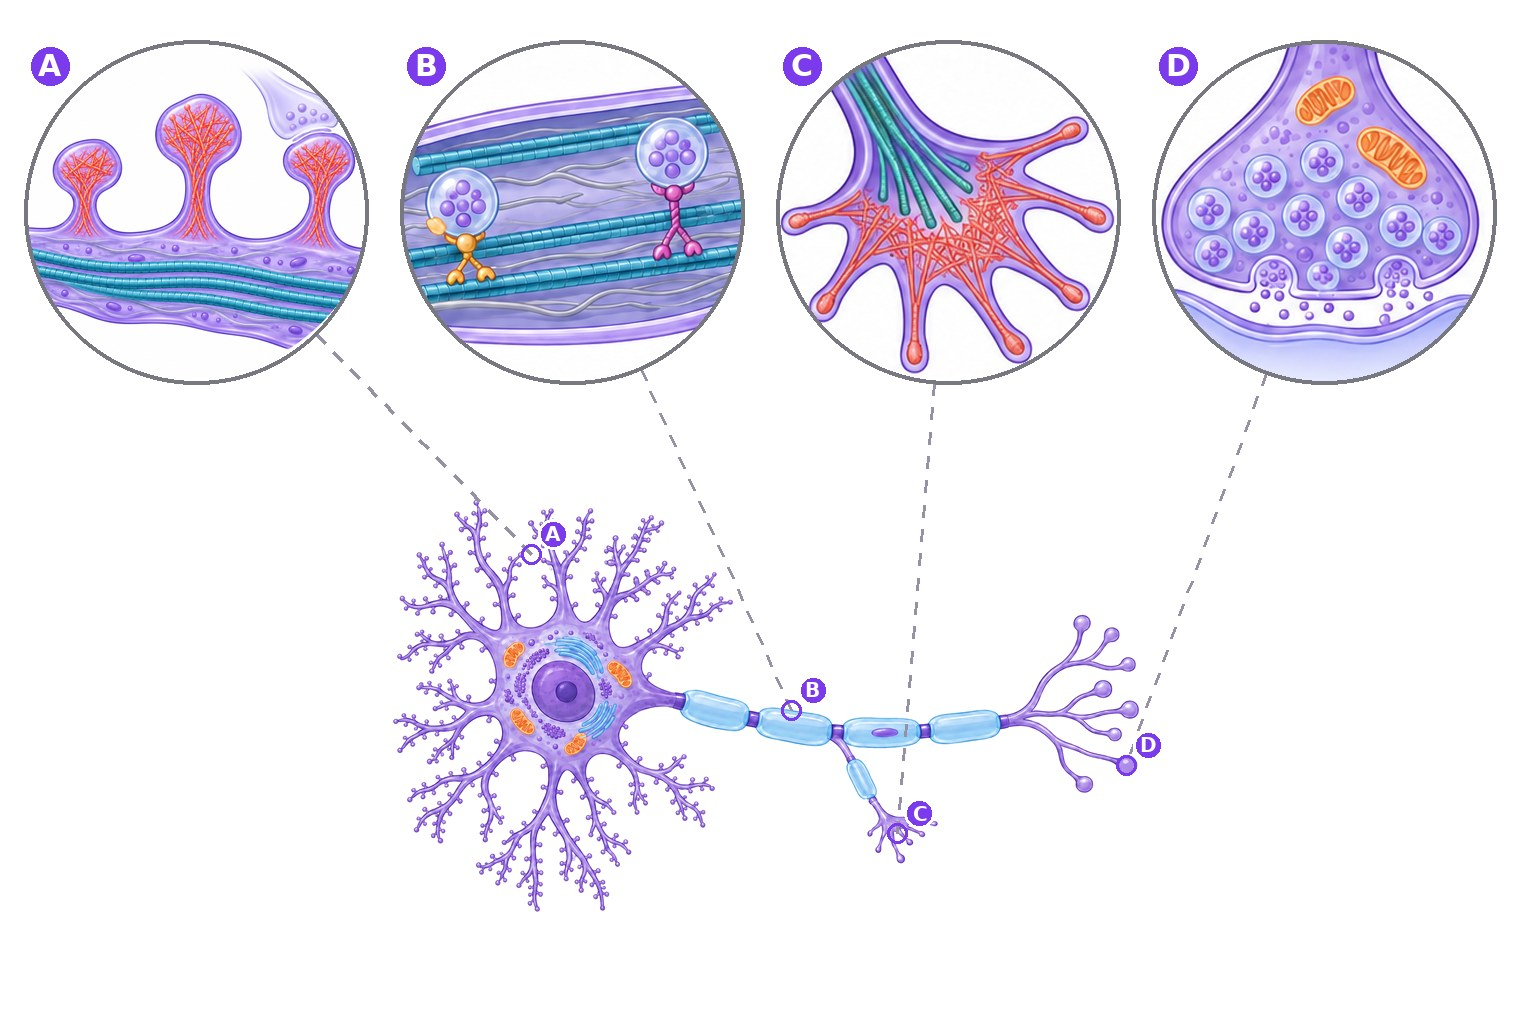
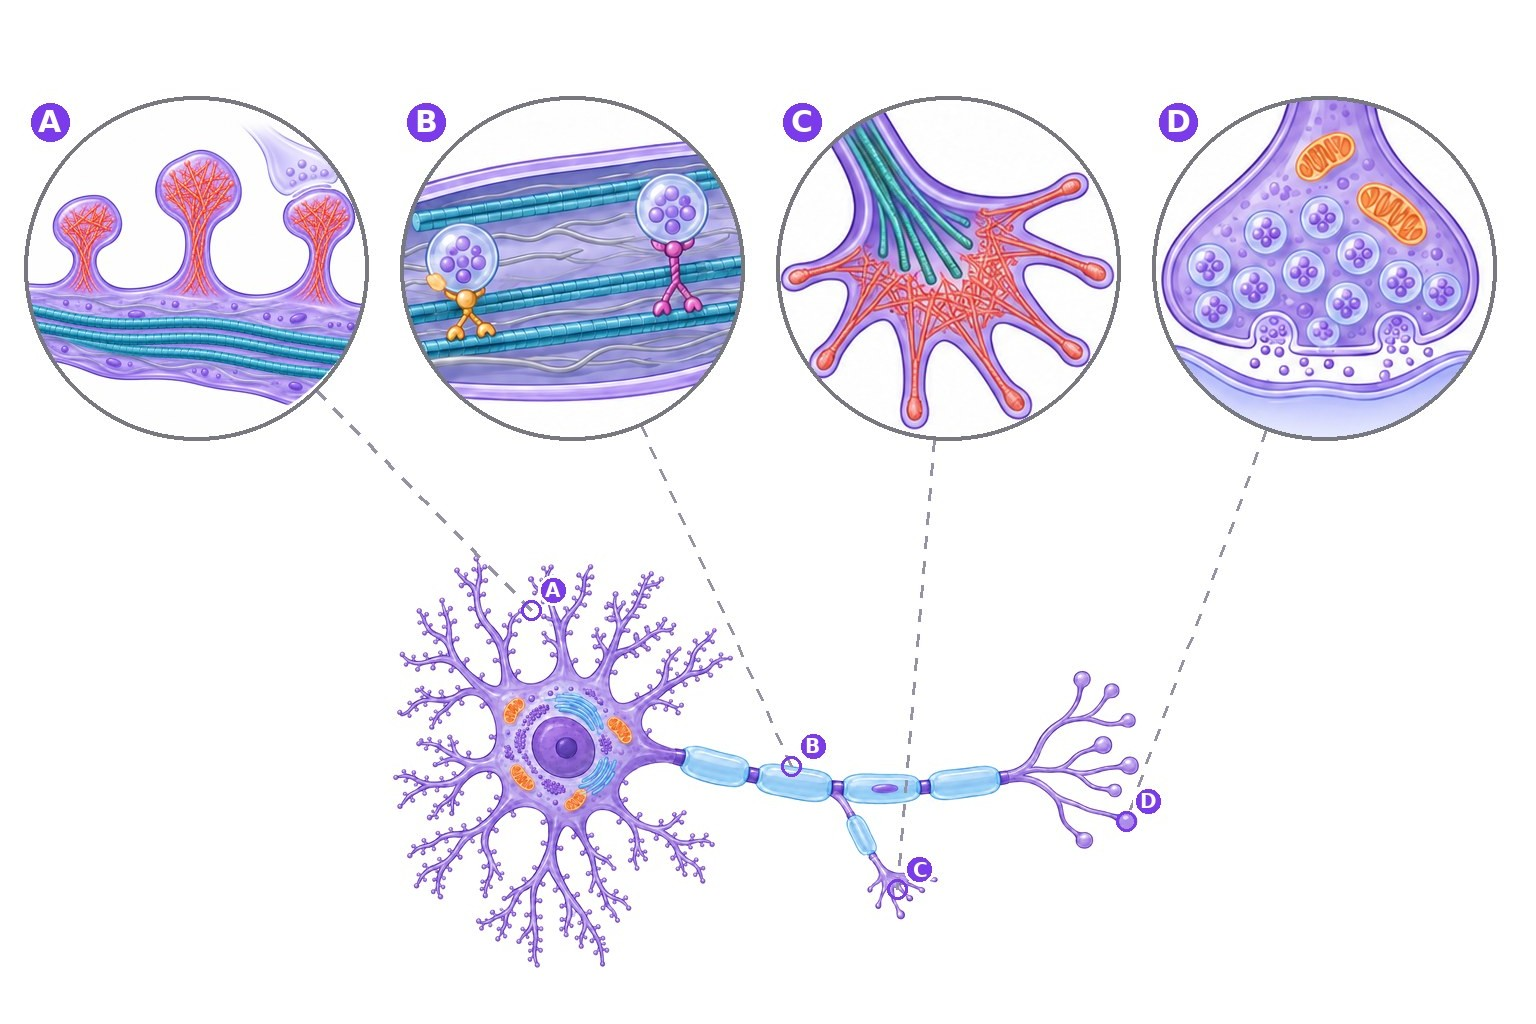
Nivel III: imagen bajada para que los números no se corten; guía en HTML más ancha, con la imagen centrada y la lista en columnas
Claude-Session: https://claude.ai/code/session_013b1frF9CACgKSWkVSaXNaw

Changed region(s): [[0.0, 0.0312, 1.0, 0.4375], [0.25, 0.5, 0.75, 0.9375], [0.3125, 0.0312, 0.4062, 0.0625]]

diff --git a/css/guia.css b/css/guia.css
@@ -7,7 +7,7 @@
     --g-linea: #DDD6FE;
     --g-suave: #F5F3FF;
 }
-.nl-guia-pag { max-width: 920px; margin: 0 auto; padding: 1.2rem 16px 3rem; }
+.nl-guia-pag { max-width: 1240px; margin: 0 auto; padding: 1.2rem 16px 3rem; }
 
 /* Herramientas (sólo pantalla) */
 .nl-guia-herr {
@@ -78,14 +78,15 @@
 .nl-g-texto { margin: .5rem 0 0; }
 .nl-g-lista { margin: .5rem 0 0; padding-left: 1.2rem; }
 
-/* Imagen + lista de identificación, lado a lado */
-.nl-g-par { display: grid; grid-template-columns: minmax(0, 1.1fr) minmax(0, 1fr); gap: 1rem; align-items: start; margin-top: .4rem; }
-.nl-g-par .nl-g-figuras { margin-top: 0; position: sticky; top: 1rem; }
-.nl-g-par .nl-g-figuras--fotos.is-una { grid-template-columns: 1fr; }
+/* Imagen de identificación arriba (centrada) y su lista debajo, en columnas que llenan el ancho */
+.nl-g-par { display: grid; gap: .8rem; margin-top: .4rem; }
+.nl-g-par .nl-g-figuras { margin-top: 0; }
+.nl-g-par .nl-g-figuras--fotos.is-una { grid-template-columns: minmax(0, 640px); justify-content: center; }
+.nl-g-par .nl-g-items { grid-template-columns: repeat(auto-fill, minmax(320px, 1fr)); column-gap: 1.6rem; }
 
 /* Lista de estructuras: (n) Nombre · función + para recordar */
 .nl-g-items { list-style: none; margin: 0; padding: 0; display: grid; gap: .1rem; }
-.nl-g-items li { display: grid; grid-template-columns: 1.6rem minmax(0, 1fr); column-gap: .5rem; padding: .35rem 0; border-bottom: 1px solid #F1EDFB; break-inside: avoid; }
+.nl-g-items li { display: grid; align-content: start; grid-template-columns: 1.6rem minmax(0, 1fr); column-gap: .5rem; padding: .35rem 0; border-bottom: 1px solid #F1EDFB; break-inside: avoid; }
 .nl-g-items li:last-child { border-bottom: 0; }
 .nl-g-items__n {
     grid-row: span 2; display: inline-grid; place-items: center; width: 1.45rem; height: 1.45rem; margin-top: .1rem;
@@ -123,7 +124,7 @@
 
 /* Figuras */
 .nl-g-figuras { display: grid; grid-template-columns: repeat(3, 1fr); gap: .7rem; margin-top: .5rem; }
-.nl-g-figuras--fotos { grid-template-columns: repeat(2, minmax(0, 300px)); justify-content: start; }
+.nl-g-figuras--fotos { grid-template-columns: repeat(auto-fill, minmax(260px, 360px)); justify-content: start; }
 .nl-g-figuras--fotos.is-una { grid-template-columns: minmax(0, 520px); }
 .nl-g-fig { margin: 0; border: 1px solid var(--g-linea); border-radius: 10px; padding: .45rem; background: #fff; break-inside: avoid; }
 .nl-g-fig svg, .nl-g-fig img { width: 100%; height: auto; display: block; border-radius: 6px; }
@@ -182,7 +183,6 @@
     .nl-g-tabla tr, .nl-g-fig { break-inside: avoid; }
     .nl-g-tabla-wrap { overflow: visible; }
     .nl-g-par { grid-template-columns: 1fr; }
-    .nl-g-par .nl-g-figuras { position: static; }
     .nl-g-par .nl-g-figuras--fotos.is-una, .nl-g-figuras--fotos.is-una { grid-template-columns: 115mm; justify-content: center; }
     .nl-g-figuras--fotos { grid-template-columns: repeat(2, 80mm); }
     .nl-g-items { grid-template-columns: 1fr 1fr; column-gap: 8mm; }

diff --git a/guia.php b/guia.php
@@ -216,7 +216,7 @@ btnHtml.addEventListener('click', async () => {
 <style>
 *{box-sizing:border-box}
 body{margin:0;padding:24px 16px;background:#EEEAF6;font-family:"Plus Jakarta Sans",system-ui,-apple-system,"Segoe UI",Roboto,Arial,sans-serif}
-.nl-guia-doc{max-width:920px;margin:0 auto}
+.nl-guia-doc{max-width:1240px;margin:0 auto}
 h1,h2,h3{font-family:inherit}
 ${css}
 </style></head>
